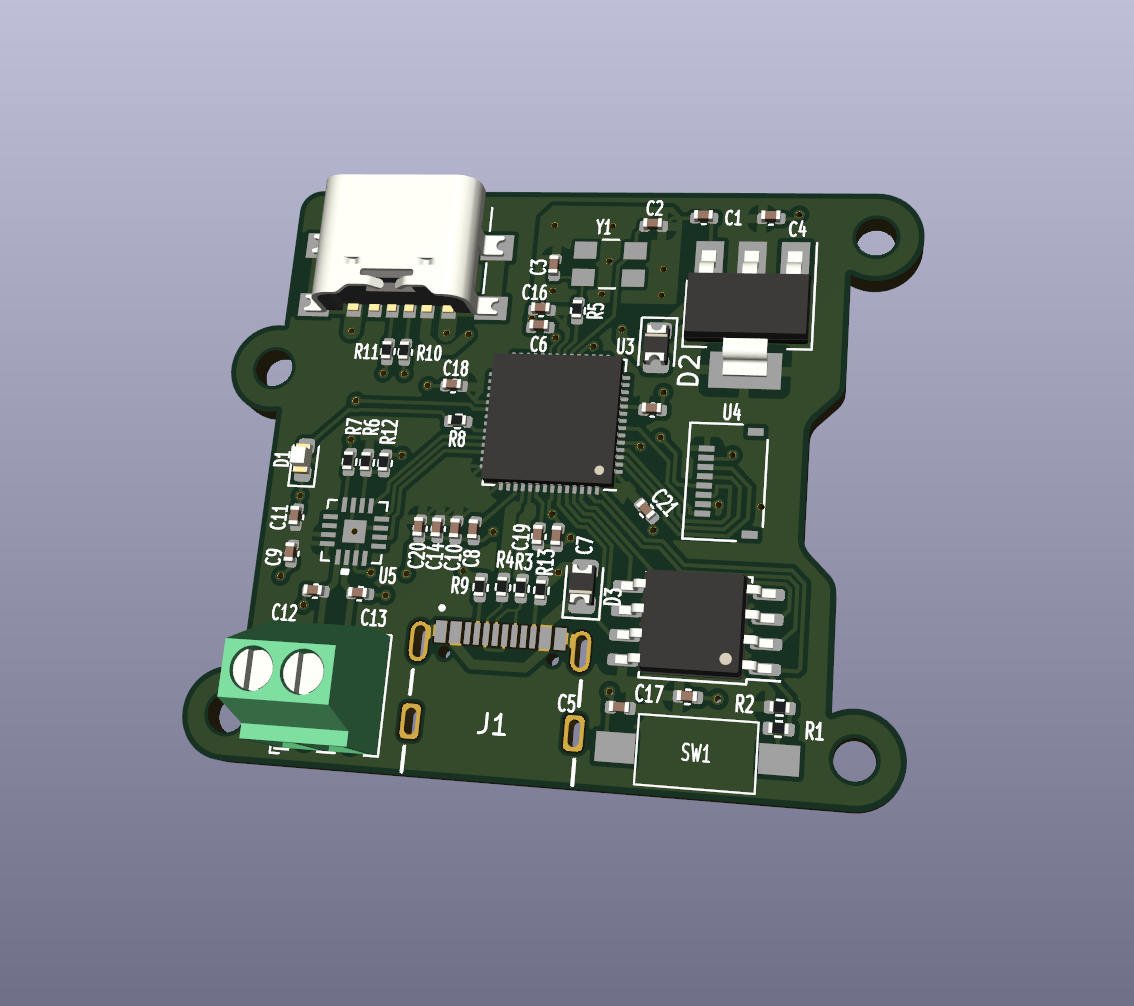
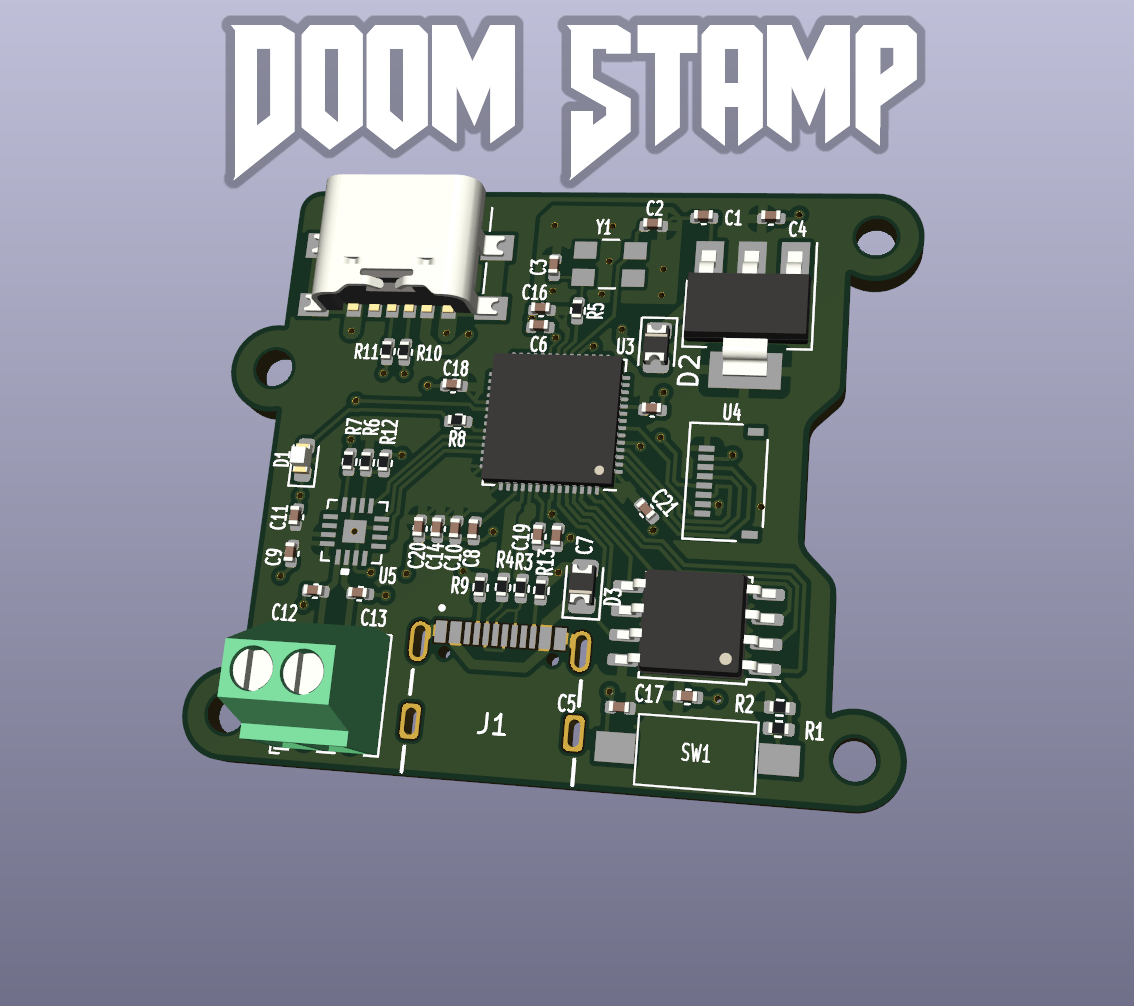
add BOM explanation
and DOOM STAMP on the doom stamp

Changed region(s): [[0.4938, 0.0, 0.8333, 0.1849], [0.1852, 0.0, 0.463, 0.1849]]

diff --git a/README.md b/README.md
@@ -167,7 +167,7 @@ While we're here, let's quickly go over some parts of the schematic that might b
 
 ![(image of power)](images/power_schematic.png)
 
-Up in the top you'll see the power circuitry. This stuff is dead simple and mostly borrowed from the reference schematic. One thing to call out here are the resistors - these are required for the USB-C spec, and you need _both_ of them so the plug can orient itself. Could you lose these resistors and have the device still work? Maybe, but I'm not in the business of maybies, go talk to the horseshoe company or whatever.
+Up in the top you'll see the power circuitry. This stuff is dead simple and mostly borrowed from the reference schematic. One thing to call out here are the resistors - these are required for the USB-C spec, and you need _both_ of them so the plug can orient itself. Could you use one resistor and have the device still work? Probably, but I'm not in the business of probablies, go talk to the horseshoe company or whatever.
 
 ## Crystal Oscillator
 
@@ -258,21 +258,67 @@ So you download your uf2 file, put your PCB into boot mode, chuck that sucker in
 
 And that's it, you got Doom playing on a custom PCB! It can be a little finnicky with what keyboards it'll allow to be connected to it, but once you do you have full control over the game. My spi / i2c code does not use DMA, but I haven't found any framerate issues; if you're implementing a larger display and having some trouble, that would be a good place to start. 
 
-So where do we go from here? Well, a million different places, honestly. You could add bluetooth and play with a game controller, or make the first electric gloves that run Doom, make a GPIO add-on for the flipper zero, or any number of different things. 
+# What's next?
 
-I don't want to just give out the files for my business card since it would be trivial to delete my name and slap someone elses in there, but I'll do you one better by releasing this board:
+So where do we go from here? Well, a million different places, honestly. You could add a bluetooth chip and play with a game controller, or make the first electric gloves that run Doom, make a GPIO add-on for the flipper zero, or any number of different things. You'll need a PCB to use / modify though; unless you were following along, that's probably not in your possession right now. I don't want you to start from scratch, but I also don't want to just give out the files for my business card since it would be trivial to delete my name and slap someone elses in there. I'll do you one better by releasing this board:
 
 ![(pic of Doom Stamp, a small microcontroller built to run Doom)](images/doom_stamp.png)
 
 I'm calling it the Doom Stamp. It's got:
 
-* The same circuit as my business card in a very compact form factor
+* The same circuit as my business card in a very compact form factor (Status LED, separate power / data USB, boot button, optional power diodes, etc etc)
 * 2-layer, 1-sided board for easy fabrication
-* Status LED, separate power / data USB, boot button, optional power diodes, etc etc
+* M2 mounting holes 
 * A nice screw terminal for connecting external speakers
 
 The kicad files are available in [this repository](https://github.com/rsheldiii/rp2040-business-card). Note that while the schematic is functionally identical and all components (save the speaker) remain the same, this exact pcb has *NOT BEEN TESTED* yet; I have boards on the way.
 
-If you just want to play around with a tiny board built to run Doom, feel free to send the kicad file off to OSHPark or generate your own gerbers. If you want to use my design as a starting point for your own creation, by all means!
+If you just want to play around with a tiny board built to run Doom, feel free to send the kicad pcb file off to OSHPark (3 boards are ~$10) or generate your own gerbers. If you want to use my design as a starting point for your own creation, by all means!
+
+# BOM shenanigans
+
+You can generate the BOM in the schematic editor; there are also pre-generated BOMs at the base of the kicad project. A few things to note:
+
+### Crystal
+
+The crystal is **NOT** the reference crystal, as they were out of stock when I made the original circuit. The crystal I used is [this one](https://www.mouser.com/ProductDetail/774-403C35E12M00000), though case-compatible 12mhz crystals will work in the circuit as long as you tweak the support capacitors.
+
+### MCU
+
+It's weirdly difficult to find RP2040 MCUs on Mouser, but they are [here](https://www.mouser.com/ProductDetail/358-SC091413)
+
+### Flash
+
+use the flash specified in the RP2040 datasheet
+
+### Audio
+
+find whichever Max9835x is in stock and double check via the datasheet that it's a drop-in replacement for the Max98357.
+
+For the speaker terminal, the BOM csv has the part number (I haven't purchased it yet, so I don't have the link). You could also elect not to fill this component, and directly solder speaker wires, either way.
+
+### Voltage Regulator
+
+the voltage regulator I used was [this one](https://www.mouser.com/ProductDetail/onsemi/NCV1117ST33T3G?qs=8sOby8ZxZLHgqg5CFzeqiA%3D%3D), but I'd certainly look for comparable LDOs that are cheaper
+
+### Screen / Screen FPC
+
+the screen FPC I used is [this one](https://www.mouser.com/ProductDetail/TE-Connectivity/2328702-8?qs=w/v1CP2dgqphyFkupQxKkA%3D%3D). This FPC interfaces with two SPI displays that I know about. I purchased them from [this link](https://www.aliexpress.us/item/3256803794221438.html?gatewayAdapt=glo2usa), the 0.96 and the 1.14 inch version (the 1.14 being showcased in this document, as it is bigger and has much better colors). There may be other screens that work, though the code will need to be modified. 
+
+### Boot Switch
+
+the component photo is of a white switch, but the boot switch is [this one](https://www.mouser.com/ProductDetail/611-PTS636SL50SMTRLF)
+
+### USBs
+
+the two USB components used are [here](https://www.mouser.com/ProductDetail/640-USB4135-GF-A) and [here](https://www.mouser.com/ProductDetail/640-USB4105-GF-A-060)
+
+### USB Diodes
+
+the USB diodes are DNF; they would theoretically provide protection for the USB circuit and enforce power direction, but they're a little difficult to come by at the power I chose for the LDO. You'll need to bridge these pads, either with a wire, a 0-ohm resistor that's compatible with the footprint, or just solder. You could also use a regulator with less capacity and thus easier-to-find supporting diodes. Note that with the diodes installed, you need to provide separate power when programming the device, as the bottom usb will only be used for communication. 
+
+
+# That's it
+
 
 That's all, thanks for reading!
